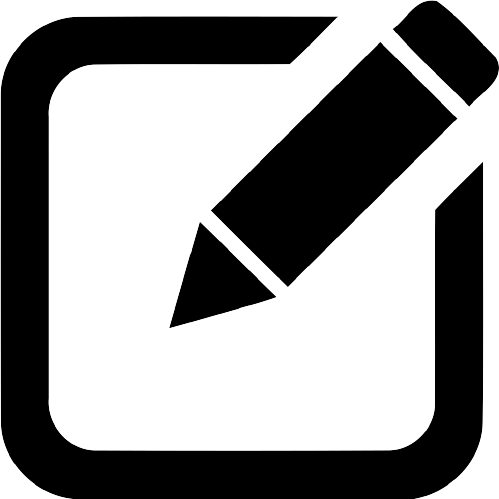
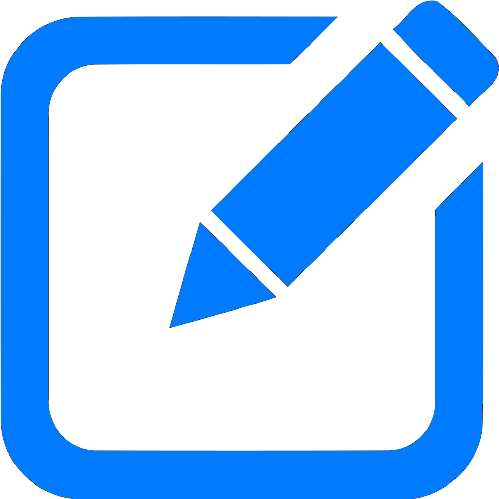
Update colors styling

diff --git a/front-end/src/Pages/Profile/Profile.js b/front-end/src/Pages/Profile/Profile.js
@@ -356,20 +356,20 @@ function Profile(props) {
                                 {followsNum} follows
                             </Button>
                             <div>
-                            {logged && !isFollowed && !isFollowing && me.id!==parseInt(props.userId) &&
+                            {me && !isFollowed && !isFollowing && me.id!==parseInt(props.userId) &&
                                 <Button variant='primary' className="margin-top-small" style={{width: '90%'}} onClick={follow}>Follow</Button>
                             }
-                            {logged && !isFollowed && isFollowing && me.id!==parseInt(props.userId) &&
+                            {me && !isFollowed && isFollowing && me.id!==parseInt(props.userId) &&
                                 <Button variant='primary' className="margin-top" style={{width: '90%'}} onClick={follow}>Follow Back</Button>
                             }
-                            {logged && isFollowed && me.id!==parseInt(props.userId) &&
+                            {me && isFollowed && me.id!==parseInt(props.userId) &&
                                 <Button variant='primary' className="margin-top-small" style={{width: '90%'}} onClick={unfollow}>Unfollow</Button>
                             }
-                            {logged && me.id===parseInt(props.userId) &&
-                                <Button variant='warning' className="margin-top-small" style={{width: '90%'}} onClick={editProf}>Edit info</Button>               
+                            {me && me.id===parseInt(props.userId) &&
+                                <Button variant='primary' className="margin-top-small" style={{width: '90%'}} onClick={editProf}>Edit info</Button>               
                             }
-                            {logged && me.id===parseInt(props.userId) &&
-                                <Button variant='danger' className="margin-top-small delete-account-button" style={{width: '90%', 'fontSize': '0.8rem'}} onClick={()=>setDeleteAcc(true)}>
+                            {me && me.id===parseInt(props.userId) &&
+                                <Button variant='outline-danger' className="margin-top-small delete-account-button" style={{width: '90%', 'fontSize': '0.8rem'}} onClick={()=>setDeleteAcc(true)}>
                                     Delete account
                                 </Button>               
                             }
@@ -398,8 +398,8 @@ function Profile(props) {
                             <hr style={{'marginTop': '0%','marginBottom': '1%'}}></hr>
                             <input id="new_profile_photo" type="file" accept="image/*" />
                             <div className="flex-layout margin-top-smaller">
-                                <Button variant='success' className="margin" style={{margin: '1%'}} onClick={saveChanges}>Save</Button>
-                                <Button variant='warning' className="margin" style={{margin: '1%'}} onClick={discardChanges}>Cancel</Button>
+                                <Button variant='primary' className="margin" style={{margin: '1%'}} onClick={saveChanges}>Save</Button>
+                                <Button variant='outline-primary' className="margin" style={{margin: '1%'}} onClick={discardChanges}>Cancel</Button>
                             </div>
                         </div>
                     </div>

diff --git a/front-end/src/Components/Posts/OnePost.js b/front-end/src/Components/Posts/OnePost.js
@@ -7,7 +7,7 @@ import like_icon from '../../images/like.png';
 import liked_icon from '../../images/liked.png';
 import comment_icon from '../../images/comment.png';
 import edit_icon from '../../images/edit.png';
-import delete_icon from '../../images/delete-icon.png';
+import delete_icon from '../../images/delete-blue.png';
 import verified from '../../images/verified.png';
 import Likes from '../Likes/Likes';
 import Comments from '../Comments/Comments';
@@ -1092,11 +1092,11 @@ class OnePost extends React.Component {
                         <div className="center-content flex-layout edit-action-container">
                             <button className="flex-layout button-as-link margin-right-small edit-action" onClick={this.editText}>
                                     <img className="like-icon-small" src={edit_icon} alt="edit"/>
-                                    <div>Edit</div>
+                                    <div style={{'color': '#007bff'}}>Edit</div>
                             </button>
                             <button className="flex-layout button-as-link edit-action" onClick={this.preDelete}>
                                     <img className="like-icon-small" src={delete_icon} alt="delete"/>
-                                    <div>Delete</div>
+                                    <div style={{'color': '#007bff'}}>Delete</div>
                             </button>
                         </div>
                     }
@@ -1151,7 +1151,7 @@ class OnePost extends React.Component {
                         </MentionsInput>
                         <div className="flex-layout center-content">
                             <Button variant='primary' className="margin" onClick={this.saveText}>Save change</Button>
-                            <Button variant='warning' className="margin" onClick={this.discardText}>Discard change</Button>
+                            <Button variant='outline-primary' className="margin" onClick={this.discardText}>Discard change</Button>
                         </div>                       
                         {this.state.media &&
                             <div className="center-content">

diff --git a/front-end/src/Components/Posts/UserPosts.js b/front-end/src/Components/Posts/UserPosts.js
@@ -1,6 +1,6 @@
 import React from "react";
 import "./Posts.css";
-import { getUsers, isLogged, getUsersPosts, PostPostText,
+import { getUsers, getUsersPosts, PostPostText,
          PostPostPhoto, deletePost, PostPostTag } from '../../api/api';
 import arrow_icon from '../../images/arrow-up.png';
 import OnePost from '../Posts/OnePost';
@@ -421,7 +421,7 @@ class UserPosts extends React.Component {
                             </MentionsInput>
                             <div className="flex-layout margin-top-smaller">
                                 <Button variant='primary' className="margin" onClick={this.addPost}>Publish</Button>
-                                <Button variant='warning' className="margin" onClick={this.clearAdd}>Clear</Button>
+                                <Button variant='outline-primary' className="margin" onClick={this.clearAdd}>Clear</Button>
                             </div>
                     </div>
                 }
@@ -438,7 +438,7 @@ class UserPosts extends React.Component {
                                         user={this.state.user}
                                         updateHome={this.props.updateHome}
                                         updateParent={this.askPosts}
-                                        user={true}
+                                        logged={this.state.user!==null}
                                         setShowingMedia={this.props.setShowingMedia}
                                         setImage={this.props.setImage}
                                         setVideo={this.props.setVideo}    

diff --git a/front-end/src/Components/Searchbar/Searchbar.js b/front-end/src/Components/Searchbar/Searchbar.js
@@ -69,7 +69,7 @@ function Searchbar() {
             <OutsideClickHandler onOutsideClick={hideSuggestions} >
             <div className="flex-layout">
                 <FormControl 
-                    style={{width: '250px'}}
+                    style={{width: '250px', 'borderColor': '#007bff'}}
                     type="text" 
                     placeholder="Search for a user..." 
                     name="input" 
@@ -77,7 +77,7 @@ function Searchbar() {
                     className="mr-sm-2"
                     onChange={(event)=>setInput(event.target.value)}
                     onFocus={showSuggestions} />
-                <Button id="search-button" disabled={searchDisabled} variant="outline-dark" onClick={search}>Search</Button>
+                <Button id="search-button" disabled={searchDisabled} variant="outline-primary" onClick={search}>Search</Button>
             </div>
             {showSuggestionsBox &&
                 <div id="suggestions-box">

diff --git a/front-end/src/Components/Explore/Explore.js b/front-end/src/Components/Explore/Explore.js
@@ -171,10 +171,10 @@ function Explore(props) {
             {usersList.length!==0 && 
                 <div className="pagi-buttons-container flex-layout center-content">
                     {start !== 1 &&
-                        <Button variant='dark' className="flex-item-small margin" onClick={previousPage}>Previous</Button>                
+                        <Button variant='primary' className="flex-item-small margin" onClick={previousPage}>Previous</Button>                
                     }
                     {usersList.length>=10 &&
-                        <Button variant='dark' className="flex-item-small margin" onClick={nextPage}>Next</Button>                
+                        <Button variant='primary' className="flex-item-small margin" onClick={nextPage}>Next</Button>                
                     }
                 </div>            
             }

diff --git a/front-end/src/Components/Posts/Posts.js b/front-end/src/Components/Posts/Posts.js
@@ -449,7 +449,7 @@ class Posts extends React.Component {
                             </MentionsInput>
                             <div className="flex-layout margin-top-smaller">
                                 <Button variant='primary' className="margin" onClick={this.addPost}>Publish</Button>
-                                <Button variant='warning' className="margin" onClick={this.clearAdd}>Clear</Button>
+                                <Button variant='outline-primary' className="margin" onClick={this.clearAdd}>Clear</Button>
                             </div>
                     </div>
                 }

diff --git a/front-end/src/Components/Comments/Comments.css b/front-end/src/Components/Comments/Comments.css
@@ -48,6 +48,7 @@
     width: 80%;
     height: 40px;
     padding: 3px;
+    border-color: #b7b7b8;
 }
 .delete-icon {
     width: 21px;
@@ -55,6 +56,7 @@
 }
 .comment-textarea__input {
     color: var(--lettersColor);
+    border-color: #007bff;
 }
 .comment-textarea__suggestions {
     background-color: var(--color2) !important;

diff --git a/front-end/src/Pages/Home/Home.css b/front-end/src/Pages/Home/Home.css
@@ -34,7 +34,7 @@ hr {
 }
 
 #root {
-    --color2: #cadfed;
+    --color2: #add3fc;
     --colorback: rgb(235, 234, 234);
     --boxback: white;
     --color3: rgb(225, 222, 222);

diff --git a/front-end/src/Components/Posts/Posts.css b/front-end/src/Components/Posts/Posts.css
@@ -262,7 +262,6 @@
     right: 0;
     margin-right: 7px;
     font-size: small;
-    background-color: var(--greyOnDarkOnly);
     padding: 1%;
     border-radius: 6px;
 }

diff --git a/front-end/src/Components/Searchbar/Searchbar.css b/front-end/src/Components/Searchbar/Searchbar.css
@@ -26,8 +26,6 @@
 }
 #search-button {
   margin-left: 2px;
-  color: var(--lettersColor);
-  border: 2px solid var(--grey);
 }
 
 .form-control {
